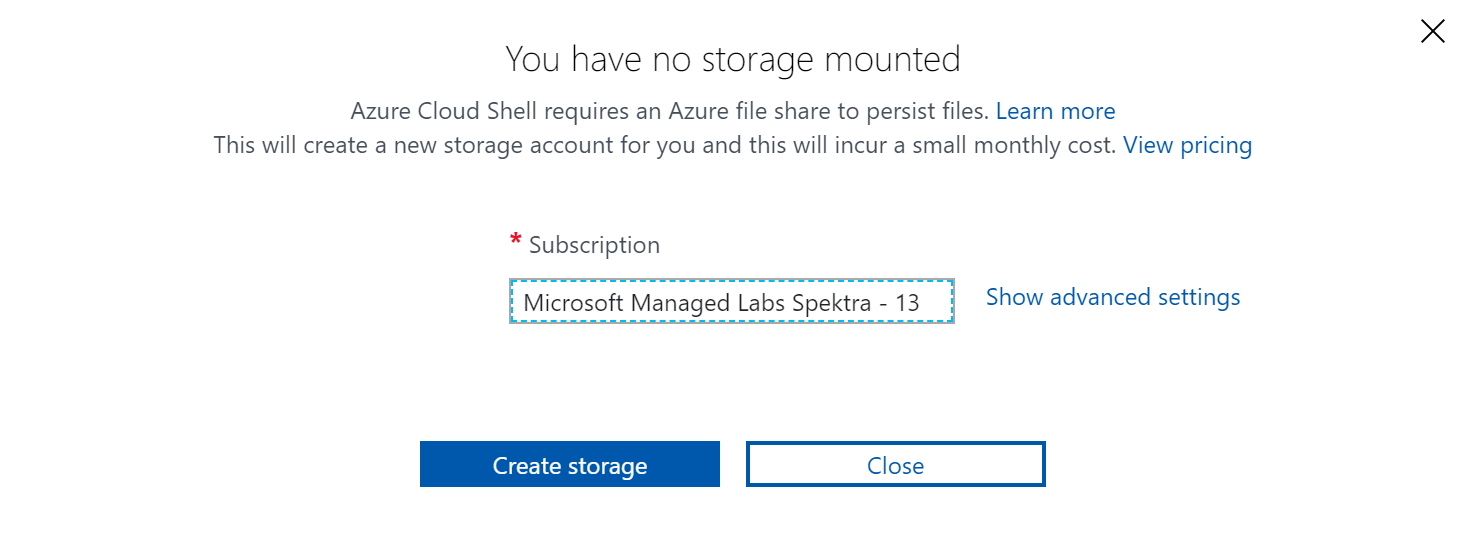
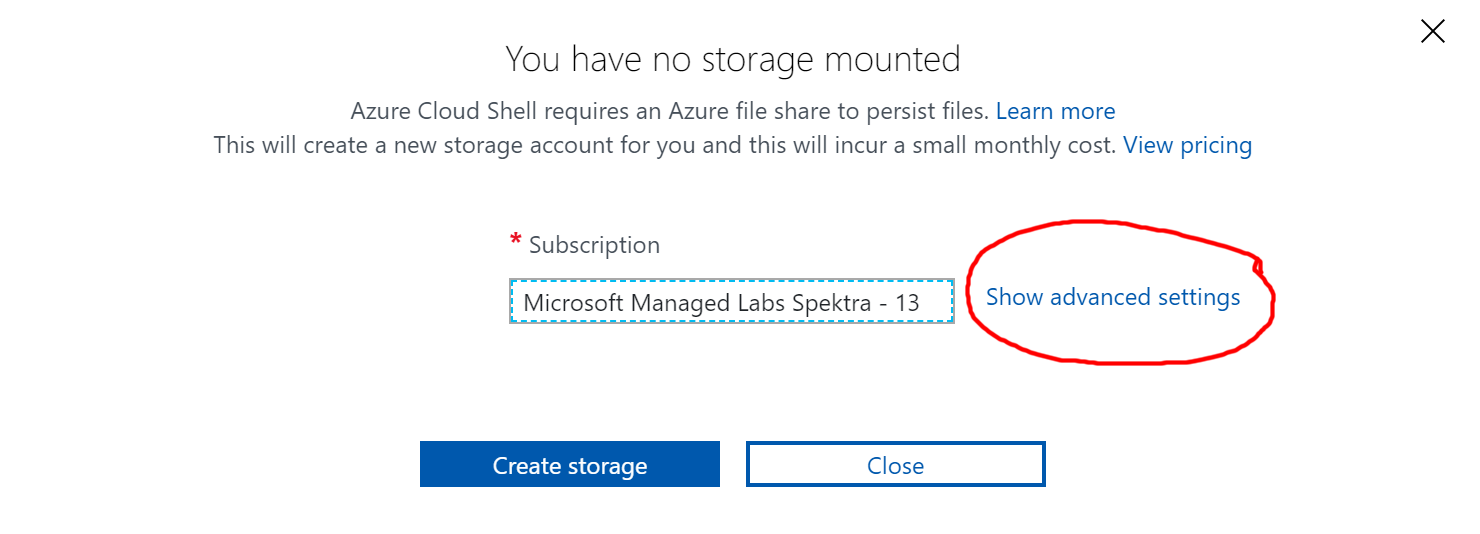
Better description of cloud shell steps

diff --git a/cloudshell.md b/cloudshell.md
@@ -1,5 +1,42 @@
+# Cloud Shell setup instructions
+
+## Description
+
+For the labs that use Azure Cloud Shell, please **follow these instructions carefully** as not doing so will require support and impact your available time for the lab. 
+
+Azure Cloud Shell is an interactive, authenticated, browser-accessible shell for managing Azure resources.
+
+## Activating your Bash cloud shell
+
+1. Click **Bash**
+
 ![](media/2019-12-31-14-41-09.png)
 
+2. Click **Show Advanced Settings**
 ![](media/2019-12-31-14-41-38.png)
 
+3. Storage and File Share name
+
+Please provie a **globally unique name** to both the Storage Account and the File Share Name
+
+Example (**replace with your own**):
+* Storage account: kjfjwhcnkd
+* File Share: kjfjwhcnkdfiles
+
 ![](media/2019-12-31-14-42-15.png)
+
+4. Click **Create storage**
+
+Your cloud shell will take a moment to become available. You will then be able to run bash, azure cli and kubectl commands, among others.
+
+## Tip
+
+In your cloud shell, you can open a code editor by typing
+
+```
+code .
+```
+
+## More info
+
+Curious about exploring more about Azure Cloud Shell? [Browse the docs](https://docs.microsoft.com/en-us/azure/cloud-shell/overview).
